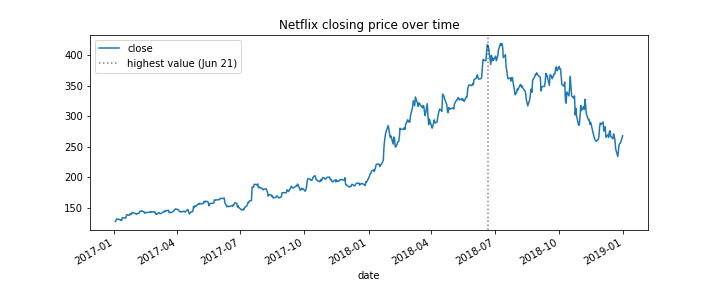
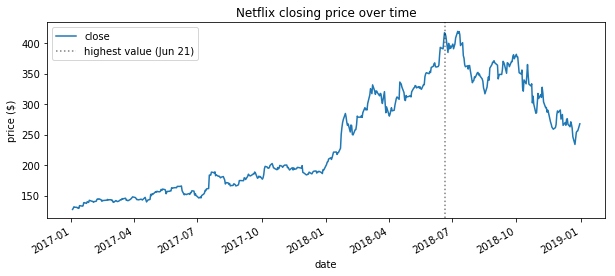
Improve labeling and return axes over figures where possible.

Changed region(s): [[0.0, 0.029, 0.9886, 0.9855], [0.0309, 0.8406, 0.2472, 0.9275]]

diff --git a/stock_analysis/stock_visualizer.py b/stock_analysis/stock_visualizer.py
@@ -226,27 +226,26 @@ class StockVisualizer(Visualizer):
                       to the plotting function.
 
         Returns:
-            A matplotlib Figure object.
+            A matplotlib Axes object.
         """
         fig, axes = plt.subplots(2, 1, figsize=(15, 15))
-        self.data.close.plot(ax=axes[0], title='Closing Price')
+        self.data.close.plot(ax=axes[0], title='Closing Price').set_ylabel('price')
         monthly = self.data.volume.resample('1M').sum()
         monthly.index = monthly.index.strftime('%b\n%Y')
         monthly.plot(
             kind='bar', ax=axes[1], color='blue', rot=0, title='Volume Traded'
-        )
+        ).set_ylabel('volume traded')
         if tight:
             axes[0].set_xlim(self.data.index.min(), self.data.index.max())
             axes[1].set_xlim(-0.25, axes[1].get_xlim()[1] - 0.25)
-        plt.close()
-        return fig
+        return axes
 
     def after_hours_trades(self):
         """
         Visualize the effect of after hours trading on this asset.
 
         Returns:
-            A matplotlib Figure object.
+            A matplotlib Axes object.
         """
         after_hours = (self.data.open - self.data.close.shift())
 
@@ -256,7 +255,7 @@ class StockVisualizer(Visualizer):
         after_hours.plot(
             ax=axes[0],
             title='After hours trading\n(Open Price - Prior Day\'s Close)'
-        )
+        ).set_ylabel('price')
 
         monthly_effect.index = monthly_effect.index.strftime('%b')
         monthly_effect.plot(
@@ -266,8 +265,8 @@ class StockVisualizer(Visualizer):
             color=np.where(monthly_effect >= 0, 'g', 'r'),
             rot=90
         ).axhline(0, color='black', linewidth=1)
-        plt.close()
-        return fig
+        axes[1].set_ylabel('price')
+        return axes
 
     def open_to_close(self, figsize=(10, 4)):
         """
@@ -277,7 +276,7 @@ class StockVisualizer(Visualizer):
             - figsize: A tuple of (width, height) for the plot dimensions.
 
         Returns:
-            A matplotlib plot object.
+            A matplotlib Figure object.
         """
         is_higher = self.data.close - self.data.open > 0
 
@@ -335,6 +334,7 @@ class StockVisualizer(Visualizer):
             'Differential between asset closing price (this - other)'
         )
         plt.legend()
+        plt.ylabel('price')
         plt.close()
         return fig
 
@@ -517,8 +517,7 @@ class AssetGroupVisualizer(Visualizer):
         fig, axes = self._get_layout()
         for ax, (name, data) in zip(axes, self.data.groupby(self.group_by)):
             sns.distplot(data[column], ax=ax, axlabel=f'{name} - {column}')
-        plt.close()
-        return fig
+        return axes
 
     def _window_calc_func(self, column, periods, name, func, named_arg, **kwargs):
         """
@@ -558,7 +557,7 @@ class AssetGroupVisualizer(Visualizer):
         Visualize the effect of after hours trading on this asset.
 
         Returns:
-            A matplotlib Figure object.
+            A matplotlib Axes object.
         """
         num_categories = self.data[self.group_by].nunique()
         fig, axes = plt.subplots(
@@ -576,6 +575,7 @@ class AssetGroupVisualizer(Visualizer):
                 ax=ax[0],
                 title=f'{name} Open Price - Prior Day\'s Close'
             )
+            ax[0].set_ylabel('price')
 
             monthly_effect.index = monthly_effect.index.strftime('%b')
             monthly_effect.plot(
@@ -585,8 +585,8 @@ class AssetGroupVisualizer(Visualizer):
                 color=np.where(monthly_effect >= 0, 'g', 'r'),
                 rot=90
             ).axhline(0, color='black', linewidth=1)
-        plt.close()
-        return fig
+            ax[1].set_ylabel('price')
+        return axes
 
     def pairplot(self, **kwargs):
         """

diff --git a/stock_analysis/stock_modeler.py b/stock_analysis/stock_modeler.py
@@ -162,7 +162,7 @@ class StockModeler:
             - model_fitted: The fitted model
 
         Returns:
-            A matplotlib figure object.
+            A matplotlib Axes object.
         """
         fig, axes = plt.subplots(1, 2, figsize=(15, 5))
         residuals = pd.Series(
@@ -173,5 +173,4 @@ class StockModeler:
         axes[0].set_ylabel('Residual')
         residuals.plot(kind='kde', ax=axes[1], title='Residuals KDE')
         axes[1].set_xlabel('Residual')
-        plt.close()
-        return fig
+        return axes

diff --git a/README.md b/README.md
@@ -83,6 +83,7 @@ netflix_viz.add_reference_line(
     label=f'highest value ({nflx.high.idxmax():%b %d})',
     alpha=0.5
 )
+ax.set_ylabel('price ($)')
 plt.show()
 ```
 
